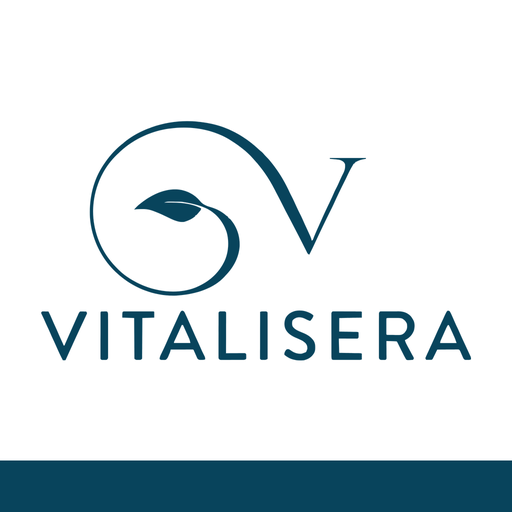
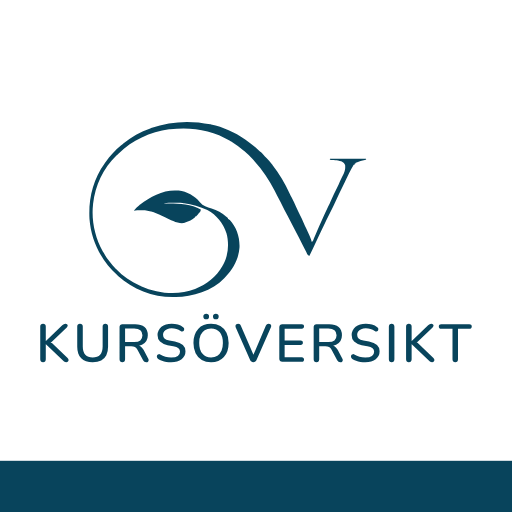
Webbappen k11: ny ikon, uppdateringsbanner, felrad och hemskärmsguide
Claude-Session: https://claude.ai/code/session_017QHDHfDZFNs1tvMJ5jVTR3

diff --git a/fristaende.js b/fristaende.js
@@ -91,7 +91,7 @@
     a.id = 'vz-fr-glom';
     a.textContent = 'Glöm den här enheten';
     a.title = 'Tar bort inloggningen från den här webbläsaren. Nästa gång behöver du logga in igen.';
-    a.style.cssText = 'position:fixed;bottom:6px;left:8px;z-index:99999;font:600 12px/1 Calibri,system-ui,sans-serif;'
+    a.style.cssText = 'position:fixed;bottom:calc(6px + env(safe-area-inset-bottom,0px));left:calc(8px + env(safe-area-inset-left,0px));z-index:99999;font:600 12px/1 Calibri,system-ui,sans-serif;'
       + 'color:#5d7c87;background:rgba(255,255,255,.9);border:1px solid #c9d6db;padding:5px 9px;border-radius:6px;cursor:pointer';
     a.addEventListener('click', function () { glom(); MINNE = ''; location.reload(); });
     document.body.appendChild(a);
@@ -106,7 +106,7 @@
       el = document.createElement('div');
       el.id = 'vz-fr-toast';
       el.setAttribute('role', 'status');
-      el.style.cssText = 'position:fixed;left:50%;bottom:40px;transform:translateX(-50%);z-index:100000;max-width:min(92vw,520px);'
+      el.style.cssText = 'position:fixed;left:50%;bottom:calc(40px + env(safe-area-inset-bottom,0px));transform:translateX(-50%);z-index:100000;max-width:min(92vw,520px);'
         + 'font:600 14px/1.4 Calibri,system-ui,sans-serif;color:#fff;background:#08445c;padding:10px 14px;border-radius:9px;'
         + 'box-shadow:0 4px 16px rgba(0,0,0,.2)';
       document.body.appendChild(el);
@@ -115,6 +115,60 @@
     el.hidden = false;
     if (toastTimer) { clearTimeout(toastTimer); }
     toastTimer = setTimeout(function () { el.hidden = true; }, 6000);
+  }
+
+  // Felrad överst (k11, Robert 2026-11-14): ett fel som annars ger en tom eller halv sida visas som en begriplig rad med
+  // "Försök igen". kod = teknisk kod i liten text (aldrig namn, e-post eller annat om en person). Får ALDRIG kasta,
+  // eftersom den körs i felvägar. Går att anropa flera gånger: raden uppdateras i stället för att dubbleras.
+  function visaFel(text, kod, forsok) {
+    try {
+      if (!document.body || !document.createElement) { return null; }
+      var el = document.getElementById ? document.getElementById('vz-fel') : null;
+      if (!el) {
+        el = document.createElement('div');
+        el.id = 'vz-fel';
+        el.setAttribute('role', 'alert');
+        el.style.cssText = 'box-sizing:border-box;margin:0;padding:12px 16px;background:#fdecea;border-bottom:2px solid #b23a2e;color:#7a1f14;'
+          + 'font:600 15px/1.4 Calibri,system-ui,sans-serif';
+        if (document.body.firstChild && document.body.insertBefore) { document.body.insertBefore(el, document.body.firstChild); }
+        else { document.body.appendChild(el); }
+      }
+      while (el.firstChild) { el.removeChild(el.firstChild); }
+      var rad = document.createElement('div');
+      rad.textContent = String(text || 'Något gick fel.');
+      el.appendChild(rad);
+      if (kod) {
+        var liten = document.createElement('div');
+        liten.style.cssText = 'margin-top:2px;font:400 12px/1.3 Calibri,system-ui,sans-serif;color:#8a4a42';
+        liten.textContent = 'Felkod: ' + String(kod).slice(0, 120);
+        el.appendChild(liten);
+      }
+      var kn = document.createElement('button');
+      kn.type = 'button';
+      kn.textContent = 'Försök igen';
+      kn.style.cssText = 'margin-top:8px;min-height:44px;padding:10px 16px;border:0;border-radius:10px;background:#08445c;color:#fff;'
+        + 'font:700 14px/1.2 Calibri,system-ui,sans-serif;cursor:pointer';
+      kn.addEventListener('click', function () { if (typeof forsok === 'function') { forsok(); } else { location.reload(); } });
+      el.appendChild(kn);
+      el.hidden = false;
+      return el;
+    } catch (e) { return null; }   // felraden själv får aldrig fälla något
+  }
+
+  // Webbappen (SIDA.lasande): vakter mot en tom sida. (1) Ett skript som inte går att hämta (nätet föll bort, cachad
+  // fil saknas) ger annars en tom vit sida utan förklaring. (2) Om #root fortfarande är tomt efter 15 s har ingen
+  // vy ritat något. Gäller bara kurs.html; obetalda.html har sina egna meddelanden och rörs inte.
+  if (SIDA.lasande) {
+    try {
+      if (typeof window.addEventListener === 'function') {
+        window.addEventListener('error', function (e) {
+          var el = e && e.target;
+          if (!el || el === window || String(el.tagName || '').toUpperCase() !== 'SCRIPT' || !el.src) { return; }
+          var fil = String(el.src).split('?')[0].split('/').pop();
+          visaFel('Sidan kunde inte laddas helt. Kontrollera nätet.', 'skript ' + fil);
+        }, true);
+      }
+    } catch (e) { /* ingen vakt tillgänglig i den här webbläsaren: sidan fungerar som förut */ }
   }
 
   var VANTA = new Promise(function () { /* löses aldrig: inloggningen visas i stället */ });
@@ -143,17 +197,20 @@
           var ut = {};
           (Array.isArray(arr) ? arr : []).forEach(function (pd) {
             if (!pd || (pd.access && pd.access !== 'shared')) { return; }
-            var v; try { v = JSON.parse(pd.value); } catch (e) { return; }
+            var v; try { v = JSON.parse(pd.value); } catch (e) { return; }   // tyst: en trasig rad hoppas över, övriga läses
             if (!v || typeof v !== 'object') { return; }
             Object.keys(v).forEach(function (k) { if (k.indexOf('vz_') === 0) { ut[k] = v[k]; } });
           });
           return ut;
         })
+        // TYST med avsikt (k11-genomgång): pluginData bär bara panelernas ordning och hopfällning. Faller hämtningen ger det
+        // standardlayouten, inte en tom sida; ett riktigt nätfel visar course.js själv i sin egen hämtning.
         .catch(function () { return {}; });
     }
     return lagringsCache[vag];
   }
   function lokal(k) {
+    // tyst: privat läge eller trasigt värde ger standardlayouten
     try { var s = localStorage.getItem('vz_fr_' + k); return s ? JSON.parse(s) : undefined; } catch (e) { return undefined; }
   }
 
@@ -191,6 +248,7 @@
   /* ---------- Läsläge: spärr i window.fetch ---------- */
   function atgard(body) {
     if (typeof body !== 'string') { return ''; }
+    // tyst: oläsbar kropp ger '' och stoppas av spärren (avsiktligt, fail-closed)
     try { var j = JSON.parse(body); return (j && typeof j.action === 'string') ? j.action : ''; } catch (e) { return ''; }
   }
   // Ren funktion (provas i proof.js): null = släpp igenom, annars skälet att stoppa.
@@ -235,11 +293,19 @@
 
   window.TrelloPowerUp = { iframe: function () { return t; } };
   window.VZ_FRISTAENDE = true;
-  window.VZ_FRISTAENDE_PROV = { sparrSkal: sparrSkal, LASATGARDER: LASATGARDER, LAS_TEXT: LAS_TEXT, t: t };
+  window.VZ_VISA_FEL = visaFel;
+  window.VZ_FRISTAENDE_PROV = { visaFel: visaFel, sparrSkal: sparrSkal, LASATGARDER: LASATGARDER, LAS_TEXT: LAS_TEXT, t: t };
 
   // Registreras före vyns egen DOMContentLoaded-lyssnare (det här skriptet laddas först).
   document.addEventListener('DOMContentLoaded', function () {
     if (SIDA.lasande && document.body) { document.body.classList.add('vz-lasande'); }
+    if (SIDA.lasande) {
+      // Täcker bara fallet att inget skript ritade något alls; en hämtning som hänger på "Hämtar …" fångas inte (k12).
+      setTimeout(function () {
+        var r = document.getElementById('root');
+        if (r && !String(r.innerHTML || '').replace(/\s+/g, '')) { visaFel('Sidan kunde inte laddas. Kontrollera nätet.', 'tom sida efter 15 s'); }
+      }, 15000);
+    }
     if (token()) { glomKnapp(); return; }
     // Vyns boot() ritar "Hämtar …"/"Anslut" och väntar på getToken(); vi ritar inloggningen efter den.
     setTimeout(inloggning, 0);

diff --git a/kurs-uppdatering.js b/kurs-uppdatering.js
@@ -1,0 +1,138 @@
+/* Webbappen: uppdateringsbanderoll och installationsguide (k11, Robert 2026-11-14). Laddas BARA av kurs.html, sist.
+ * Power-Upen i Trello laddar aldrig filen.
+ *
+ * 1) Uppdateringsbanderoll: GitHub Pages cachar kurs.html i upp till 10 minuter (max-age=600), så telefonen kunde visa en
+ *    gammal version en stund efter en release. Sidan hämtar därför kurs-version.json (aldrig cachad) vid start och när
+ *    den blir synlig igen, och jämför med versionen den själv körs med. Skiljer de sig visas en rad med "Ladda om".
+ *    Aldrig en banderoll om hämtningen misslyckas, och högst en kontroll per 60 s. Inloggningen ligger i localStorage
+ *    och berörs inte av omladdningen.
+ * 2) Installationsguide: visas EN gång i en telefon som öppnar sidan i webbläsaren (inte som hemskärmsapp).
+ *    Flaggan sparas i localStorage; kan den inte läsas visas inget (hellre ingen guide än en som upprepas). */
+(function () {
+  'use strict';
+
+  var INTERVALL_MS = 60000;
+  var GUIDE_NYCKEL = 'vz_kurs_guide_sedd';
+  var senast = 0;
+  var visad = false;
+
+  // Ren funktion (provas): ska banderollen visas? lokal = versionen sidan kör med, ny = svaret ur kurs-version.json.
+  function skiljer(lokal, ny) {
+    return typeof ny === 'string' && /^[A-Za-z0-9._-]{1,20}$/.test(ny) && String(lokal || '') !== ny;
+  }
+
+  // Versionen filerna faktiskt laddades med: ?v i adressen om den finns, annars sidans egen.
+  function lokalVersion() {
+    var v = '';
+    try { v = (new URLSearchParams(location.search)).get('v') || ''; } catch (e) { /* ingen adress att läsa: sidans egen version gäller */ }
+    return v || window.VZ_KURS_V || '';
+  }
+
+  // Ren funktion (provas): adressen "Ladda om" går till. Behåller övriga parametrar, sätter ?v=<ny> och en cachebrytare
+  // så att den cachade kurs.html inte används igen. Hashen lämnas (den bär aldrig något efter inloggningen).
+  function laddaOmUrl(nuvarande, ny, nu) {
+    var u = new URL(nuvarande);
+    u.searchParams.set('v', ny);
+    u.searchParams.set('_', String(nu));
+    return u.pathname + u.search;
+  }
+
+  function visaBanderoll(ny) {
+    if (visad || !document.body) { return; }
+    visad = true;
+    var el = document.createElement('div');
+    el.id = 'vz-uppd';
+    el.setAttribute('role', 'status');
+    var t = document.createElement('span');
+    t.textContent = 'Det finns en ny version av Kursöversikt.';
+    var b = document.createElement('button');
+    b.type = 'button';
+    b.textContent = 'Ladda om';
+    b.addEventListener('click', function () {
+      try { location.replace(laddaOmUrl(location.href, ny, Date.now())); } catch (e) { location.reload(); }
+    });
+    el.appendChild(t);
+    el.appendChild(b);
+    document.body.insertBefore(el, document.body.firstChild);
+  }
+
+  function kolla() {
+    var nu = Date.now();
+    if (visad || nu - senast < INTERVALL_MS) { return; }
+    senast = nu;
+    if (typeof window.fetch !== 'function') { return; }
+    try {
+      window.fetch('kurs-version.json?t=' + nu, { cache: 'no-store' })
+        .then(function (r) { return r.ok ? r.json() : null; })
+        .then(function (j) { if (j && skiljer(lokalVersion(), j.v)) { visaBanderoll(j.v); } })
+        // TYST med avsikt: nätfel, 404 eller trasig JSON ska aldrig ge en banderoll. Nästa kontroll tar det.
+        .catch(function () { });
+    } catch (e) { /* TYST med avsikt: en kontroll som inte kan starta får inte stoppa sidan eller guiden */ }
+  }
+
+  /* ---------- Installationsguide ---------- */
+
+  function arApp() {
+    try {
+      if (navigator.standalone) { return true; }
+      return !!(window.matchMedia && window.matchMedia('(display-mode: standalone)').matches);
+    } catch (e) { return false; }   // osäkert: räkna som webbläsare (guiden visas högst en gång)
+  }
+
+  // 'iphone' | 'android' | '' (dator och övrigt). iPad som utger sig för Mac känns igen på pekskärmen.
+  function enhet(nav) {
+    var ua = String((nav && nav.userAgent) || '');
+    if (/iPhone|iPad|iPod/.test(ua) || (/Macintosh/.test(ua) && (nav.maxTouchPoints || 0) > 1)) { return 'iphone'; }
+    if (/Android/.test(ua)) { return 'android'; }
+    return '';
+  }
+
+  var GUIDE_TEXT = {
+    iphone: 'Lägg Kursöversikt på hemskärmen: tryck på Dela och sedan Lägg till på hemskärmen.',
+    android: 'Lägg Kursöversikt på hemskärmen: öppna menyn ⋮ och välj Lägg till på startskärmen.'
+  };
+
+  // Ren funktion (provas): vilken guide ska visas, eller '' om ingen. Alla villkor in som argument.
+  function guideFor(o) {
+    if (!o.enhet || o.app || !o.toppen || o.sedd !== false) { return ''; }
+    return o.enhet;
+  }
+
+  function guideSedd() {
+    try { return localStorage.getItem(GUIDE_NYCKEL) === '1'; } catch (e) { return null; }   // null = kan inte läsas
+  }
+
+  function visaGuide() {
+    var sedd = guideSedd();
+    var vilken = guideFor({ enhet: enhet(navigator), app: arApp(), toppen: window.top === window, sedd: sedd === null ? true : sedd });
+    if (!vilken || !document.body) { return; }
+    var ov = document.createElement('div');
+    ov.id = 'vz-guide';
+    ov.setAttribute('role', 'dialog');
+    ov.setAttribute('aria-modal', 'true');
+    var kort = document.createElement('div');
+    kort.className = 'vz-guide-kort';
+    var p = document.createElement('p');
+    p.textContent = GUIDE_TEXT[vilken];
+    var b = document.createElement('button');
+    b.type = 'button';
+    b.textContent = 'Jag förstår';
+    b.addEventListener('click', function () {
+      try { localStorage.setItem(GUIDE_NYCKEL, '1'); } catch (e) { /* privat läge: guiden kan visas igen, ofarligt */ }
+      if (ov.parentNode) { ov.parentNode.removeChild(ov); }
+    });
+    kort.appendChild(p);
+    kort.appendChild(b);
+    ov.appendChild(kort);
+    document.body.appendChild(ov);
+  }
+
+  window.VZ_UPPDATERING_PROV = { skiljer: skiljer, laddaOmUrl: laddaOmUrl, kolla: kolla, guideFor: guideFor, enhet: enhet, visaGuide: visaGuide, lokalVersion: lokalVersion };
+
+  function start() {
+    kolla();
+    try { visaGuide(); } catch (e) { /* guiden är en hjälp, aldrig ett krav */ }
+  }
+  document.addEventListener('visibilitychange', function () { if (document.visibilityState === 'visible') { kolla(); } });
+  if (document.readyState === 'loading') { document.addEventListener('DOMContentLoaded', start); } else { start(); }
+})();

diff --git a/kurs-mobil.css b/kurs-mobil.css
@@ -212,12 +212,12 @@ html.vz-lasande #root::before{
 .vz-ic-lagvarning{display:block;margin-top:2px;font:12px/1.3 Calibri,system-ui,sans-serif;color:#6b7b82}
 
 /* ---- Snabbnavigering (kurs-nav.js): fast rad högst upp, rullar vågrätt om knapparna inte ryms. ---- */
-#vz-nav{position:sticky;top:0;z-index:50;background:#fff;border-bottom:1px solid #cfe0e3;max-width:100%;box-sizing:border-box}
+#vz-nav{position:sticky;top:env(safe-area-inset-top,0px);z-index:50;background:#fff;border-bottom:1px solid #cfe0e3;max-width:100%;box-sizing:border-box}
 #vz-nav::after{content:"";position:absolute;top:0;right:0;bottom:0;width:28px;pointer-events:none;background:linear-gradient(90deg,rgba(255,255,255,0),#fff)}
 .vz-nav-rad{display:flex;gap:8px;padding:8px 36px 8px 10px;overflow-x:auto;white-space:nowrap;-webkit-overflow-scrolling:touch}
 .vz-nav-knapp{flex:none;min-height:44px;padding:10px 16px;border:1px solid #cfe0e3;border-radius:999px;background:#eef6f6;color:#08445c;font:700 14px/1.2 Calibri,system-ui,sans-serif;cursor:pointer;white-space:nowrap}
 .vz-nav-knapp:active{background:#08445c;color:#fff}
-#vz-mlista,.vz-region-matrix,#vz-tel,#vz-personal,#vz-ic{scroll-margin-top:64px}
+#vz-mlista,.vz-region-matrix,#vz-tel,#vz-personal,#vz-ic{scroll-margin-top:calc(64px + env(safe-area-inset-top,0px))}
 
 /* ---- Infällda avsnitt (Robert 2026-11-14): Telefonlista, Deltagare, Personal och Incheckning är stängda från start. ---- */
 .vz-sek > summary.vz-sek-rub,.vz-panel--aside.vz-sek-stangd .vz-panel-title,.vz-panel--aside[data-vz-sek] .vz-panel-title{display:flex;align-items:center;gap:8px;min-height:44px;cursor:pointer;list-style:none;font:700 16px/1.3 Calibri,system-ui,sans-serif;color:#08445c}
@@ -226,3 +226,17 @@ html.vz-lasande #root::before{
 .vz-sek[open] > summary.vz-sek-rub::before,.vz-panel--aside[data-vz-sek]:not(.vz-sek-stangd) .vz-panel-title::before{transform:rotate(90deg)}
 .vz-panel--aside.vz-sek-stangd > :not(.vz-panel-title){display:none !important}
 .vz-sek-stangd .vz-panel-title{margin-bottom:0 !important}
+
+/* ---- k11: uppdateringsbanderoll, felrad, installationsguide och iOS-säkra kanter. ---- */
+/* Banderollen (#vz-uppd) och guiden gäller alla bredder. Felraden (#vz-fel) stylas inline av fristaende.js. */
+#vz-uppd{display:flex;flex-wrap:wrap;align-items:center;justify-content:space-between;gap:10px;box-sizing:border-box;padding:10px 16px;background:#08445c;color:#fff;font:600 14px/1.4 Calibri,system-ui,sans-serif}
+#vz-uppd button{min-height:44px;padding:10px 16px;border:0;border-radius:10px;background:#fff;color:#08445c;font:700 14px/1.2 Calibri,system-ui,sans-serif;cursor:pointer}
+#vz-guide{position:fixed;inset:0;z-index:100002;display:flex;align-items:center;justify-content:center;box-sizing:border-box;background:rgba(8,68,92,.55);padding:calc(16px + env(safe-area-inset-top,0px)) calc(16px + env(safe-area-inset-right,0px)) calc(16px + env(safe-area-inset-bottom,0px)) calc(16px + env(safe-area-inset-left,0px))}
+.vz-guide-kort{max-width:380px;padding:18px;border-radius:14px;background:#fff;color:#0d2f3c;box-shadow:0 8px 28px rgba(0,0,0,.3)}
+.vz-guide-kort p{margin:0 0 14px;font:16px/1.45 Calibri,system-ui,sans-serif}
+.vz-guide-kort button{min-height:44px;padding:10px 18px;border:0;border-radius:10px;background:#08445c;color:#fff;font:700 15px/1.2 Calibri,system-ui,sans-serif;cursor:pointer}
+
+/* Statusfältet (black-translucent, vit text): sidan går under det, så kanterna får utrymme. Fältet ovanför får sidhuvudets
+   petrolfärg så att den vita texten syns. env() är 0 i datorn, där inget ändras. */
+html.vz-lasande body{box-sizing:border-box;padding:env(safe-area-inset-top,0px) env(safe-area-inset-right,0px) env(safe-area-inset-bottom,0px) env(safe-area-inset-left,0px)}
+html.vz-lasande::before{content:"";position:fixed;top:0;left:0;right:0;height:env(safe-area-inset-top,0px);background:#08445c;z-index:60;pointer-events:none}

diff --git a/kurs.html b/kurs.html
@@ -5,7 +5,7 @@
   <meta name="viewport" content="width=device-width, initial-scale=1, viewport-fit=cover" />
   <meta name="apple-mobile-web-app-capable" content="yes" />
   <meta name="apple-mobile-web-app-title" content="Kursöversikt" />
-  <meta name="apple-mobile-web-app-status-bar-style" content="default" />
+  <meta name="apple-mobile-web-app-status-bar-style" content="black-translucent" />
   <meta name="mobile-web-app-capable" content="yes" />
   <meta name="theme-color" content="#08445c" />
   <link rel="manifest" href="./kurs-manifest.json" />
@@ -17,8 +17,9 @@
   <script>
     // Standardversion för webbappens filer (Robert 2026-11-14: tabellen syntes i telefonen). Hemskärmsikonen öppnar
     // utan ?v, och då laddades filerna oversionerade, så en gammal cachad kurs-mobil.css kunde visas. HÖJ VID VARJE
-    // UPPLADDNING av webbappens filer.
-    window.VZ_KURS_V = 'k10';
+    // UPPLADDNING av webbappens filer, OCH i kurs-version.json (uppdateringsbanderollen jämför de två; proof_kursuppdatering.js
+    // fångar en glömd höjning).
+    window.VZ_KURS_V = 'k11';
     (function () {
       var v = (new URLSearchParams(location.search)).get('v') || window.VZ_KURS_V;
       var q = v ? ('?v=' + encodeURIComponent(v)) : '';
@@ -37,7 +38,7 @@
     (function () {
       var v = (new URLSearchParams(location.search)).get('v') || window.VZ_KURS_V;
       var q = v ? ('?v=' + encodeURIComponent(v)) : '';
-      ['./fristaende.js' + q, './config.js' + q, './course-view.js' + q, './course.js' + q, './kurs-lasande.js' + q, './kurs-listor.js' + q, './kurs-incheckning.js' + q, './kurs-nav.js' + q]
+      ['./fristaende.js' + q, './config.js' + q, './course-view.js' + q, './course.js' + q, './kurs-lasande.js' + q, './kurs-listor.js' + q, './kurs-incheckning.js' + q, './kurs-nav.js' + q, './kurs-uppdatering.js' + q]
         .forEach(function (src) { document.write('<script src="' + src + '"><\/script>'); });
     })();
   </script>
@@ -49,7 +50,7 @@
       b.id = 'vz-ver';
       b.textContent = 'v' + (sp.get('v') || window.VZ_KURS_V || '?');
       b.title = 'Connector-version';
-      b.style.cssText = 'position:fixed;bottom:6px;right:8px;z-index:99999;font:600 11px/1 Calibri,system-ui,sans-serif;color:#5d7c87;background:rgba(255,255,255,.82);padding:3px 7px;border-radius:6px;pointer-events:none;opacity:.7';
+      b.style.cssText = 'position:fixed;bottom:calc(6px + env(safe-area-inset-bottom,0px));right:calc(8px + env(safe-area-inset-right,0px));z-index:99999;font:600 11px/1 Calibri,system-ui,sans-serif;color:#5d7c87;background:rgba(255,255,255,.82);padding:3px 7px;border-radius:6px;pointer-events:none;opacity:.7';
       function add(){ (document.body || document.documentElement).appendChild(b); }
       if (document.body) { add(); } else { document.addEventListener('DOMContentLoaded', add); }
     })();

diff --git a/kurs-lasande.js b/kurs-lasande.js
@@ -44,7 +44,7 @@
       var cd = typeof w.carriedDocForCourse === 'function' ? w.carriedDocForCourse(kurs) : null;
       if (cd && typeof w.carriedLinkForCard === 'function') { lagg(cd.label, w.carriedLinkForCard(kort, kurs)); }
       if (typeof w.commentLink === 'function' && w.HF_LINK_RES) { lagg('Hälsoformulär', w.commentLink(kort, w.HF_LINK_RES)); }
-    } catch (e) { /* en trasig länk får aldrig fälla listan */ }
+    } catch (e) { /* TYST (k11): en trasig dokumentlänk lämnar bara den länken utan; listan och övriga länkar ritas */ }
     return out;
   }
 
@@ -112,7 +112,19 @@
     });
   }
 
-  window.VZ_MLISTA_PROV = { radHtml: radHtml, listaHtml: listaHtml, rita: rita, dokLankar: dokLankar };
+  // VISAS (k11): kunde deltagarlistan inte ritas är telefonvyn tom (tabellen är dold i telefonbredd). Då visas en rad
+  // med skälet och "Försök igen" (ritar listan på nytt), och hela tabellen slås på så att kursen ändå går att se.
+  function ritaFel(rootEl, model, e) {
+    try { document.documentElement.classList.add('vz-visa-tabell'); } catch (e2) { /* klassen är bara en förbättring */ }
+    var kod = (e && (e.name || e.message)) ? String(e.name || '') + (e.message ? ': ' + String(e.message).slice(0, 80) : '') : 'okänt fel';
+    if (typeof window.VZ_VISA_FEL === 'function') {
+      window.VZ_VISA_FEL('Kunde inte visa deltagarlistan. Hela tabellen visas i stället.', 'lista ' + kod, function () {
+        try { rita(rootEl, model); var f = document.getElementById('vz-fel'); if (f) { f.hidden = true; } } catch (e3) { ritaFel(rootEl, model, e3); }
+      });
+    }
+  }
+
+  window.VZ_MLISTA_PROV = { ritaFel: ritaFel, radHtml: radHtml, listaHtml: listaHtml, rita: rita, dokLankar: dokLankar };
 
   // course.js anropar window.CourseView.render vid varje ritning; omslaget ritar listan efteråt.
   var cv = window.CourseView;
@@ -120,7 +132,7 @@
     var orig = cv.render;
     cv.render = function (rootEl, model) {
       try { return orig.apply(this, arguments); }
-      finally { try { rita(rootEl, model); } catch (e) { /* listan får aldrig fälla sidan */ } }
+      finally { try { rita(rootEl, model); } catch (e) { ritaFel(rootEl, model, e); } }
     };
   }
 })();
